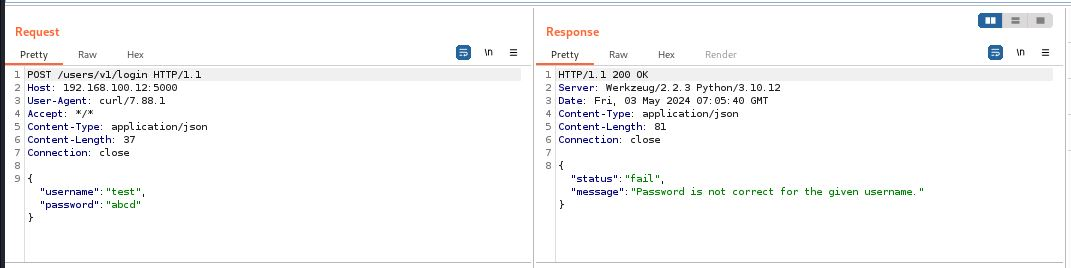
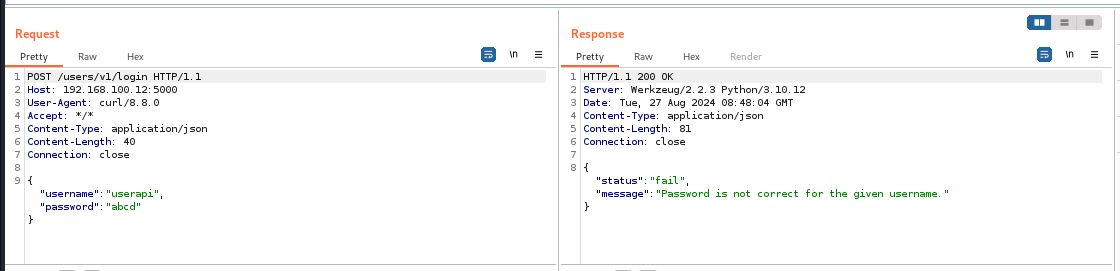
Revisi writeup

diff --git a/Unathorized Password Change.md b/Unathorized Password Change.md
@@ -1,16 +1,16 @@
 # Unauthorized Password Change
 Access Control menerapkan kebijakan sedemikian rupa sehingga pengguna tidak dapat bertindak di luar izin yang dimaksudkan. Kegagalan otorisasi biasanya menyebabkan pengungkapan informasi yang tidak sah, modifikasi, penghapusan data atau pelaksanaan fungsi bisnis lain di luar batas pengguna. Misalnya adalah mengizinkan melihat atau mengedit akun orang lain, dengan memberikan pengenal uniknya (insecure direct object references)
 
-- Login terlebih dahulu untuk mengakses endpoint `/users/v1/{username}/password`
+- Login terlebih dahulu untuk mengakses endpoint `/users/v1/{username}/password` dengan akun yang sudah dibuat di proses instalasi kemudian copy nilai `auth_token`
 ```sh
-curl http://IP_Server:5000/users/v1/login -d '{"username":"test","password":"test"}' -H 'Content-Type: application/json' --proxy http://127.0.0.1:8080
+curl http://IP_Server:5000/users/v1/login -d '{"username":"userapi","password":"12345"}' -H 'Content-Type: application/json' --proxy http://127.0.0.1:8080
 ```
 
 ![alt text](https://github.com/rahardian-dwi-saputra/vampi-walkthrough/blob/main/assets/unathorized%20password%20change/unauthorized%201.JPG)
 
 ![alt text](https://github.com/rahardian-dwi-saputra/vampi-walkthrough/blob/main/assets/unathorized%20password%20change/unauthorized%202.JPG)
 
-- Setelah kita login sebagai user `test` sekarang kita coba mengubah password user `name1` melalui endpoint `/users/v1/{username}/password`
+- Setelah kita login sebagai user `userapi` sekarang kita coba mengubah password user `name1` melalui endpoint `/users/v1/{username}/password`
 ```sh
 curl -X PUT http://IP_Server:5000/users/v1/name1/password -d '{"password":"testing"}' -H 'Authorization: Bearer token' -H 'Content-Type: application/json' -H "Accept: application/json" --proxy http://127.0.0.1:8080 -v
 ```
@@ -19,7 +19,8 @@ curl -X PUT http://IP_Server:5000/users/v1/name1/password -d '{"password":"testi
 
 ![alt text](https://github.com/rahardian-dwi-saputra/vampi-walkthrough/blob/main/assets/unathorized%20password%20change/unauthorized%204.JPG)
 
-- Disini kita berhasil mengubah password user `name1` meskipun kita login sebagai user `test`. Di sisi lain kita juga bisa mengubah email user `name1` melalui endpoint `/users/v1/{username}/email`
+- Dari percobaan diatas, terlihat bahwa sistem memberi respon HTTP code 204 yang artinya request pengubahan password user `name1` telah berhasil dilakukan
+- Di sisi lain kita juga bisa mengubah email user `name1` melalui endpoint `/users/v1/{username}/email`. Jika `auth_token` sudah expire, anda harus melakukan login kembali dan copy value `auth_token` yang baru
 ```sh
 curl -X PUT http://IP_Server:5000/users/v1/name1/email -d '{"email":"testing@mail.com"}' -H 'Authorization: Bearer token' -H 'Content-Type: application/json' -H "Accept: application/json" --proxy http://127.0.0.1:8080 -v
 ```
@@ -27,3 +28,6 @@ curl -X PUT http://IP_Server:5000/users/v1/name1/email -d '{"email":"testing@mai
 ![alt text](https://github.com/rahardian-dwi-saputra/vampi-walkthrough/blob/main/assets/unathorized%20password%20change/unauthorized%205.JPG)
 
 ![alt text](https://github.com/rahardian-dwi-saputra/vampi-walkthrough/blob/main/assets/unathorized%20password%20change/unauthorized%206.JPG)
+
+- Dari percobaan diatas, terlihat bahwa sistem memberi respon HTTP code 204 yang artinya request pengubahan email user `name1` telah berhasil dilakukan
+- Dari serangkaian percobaan diatas, dapat kita simpulkan bahwa kita bisa mengubah password dan email dari user apapun tanpa harus login sebagi user yang bersangkutan. Inilah yang disebut dengan celah keamanan Broken Access Control

diff --git a/User and Password Enumeration.md b/User and Password Enumeration.md
@@ -1,16 +1,16 @@
 # User and Password Enumeration
 Seringkali, aplikasi web mengungkapkan keberadaan nama pengguna di sistem, baik karena kesalahan konfigurasi atau karena kesalahan desain. Misalnya, saat mengirimkan kredensial yang salah, kita menerima pesan yang menyatakan bahwa nama pengguna ada di sistem atau kata sandi yang diberikan salah. Informasi ini dapat digunakan untuk menyerang aplikasi web, misalnya melalui serangan brute force atau mengenumerasi username dan password. Celah keamanan ini ada di endpoint `/users/v1/login`
 
-- Sekarang kita coba lakukan login dengan username yang ada tapi dengan password yang salah
+- Sekarang kita coba lakukan login dengan dengan username yang sudah didaftarkan saat proses instalasi tapi menggunakan password yang salah 
 ```sh
-curl http://IP_Server:5000/users/v1/login -d '{"username":"test","password":"abcd"}' -H 'Content-Type: application/json' --proxy http://127.0.0.1:8080
+curl http://IP_Server:5000/users/v1/login -d '{"username":"userapi","password":"abcd"}' -H 'Content-Type: application/json' --proxy http://127.0.0.1:8080
 ```
 
 ![alt text](https://github.com/rahardian-dwi-saputra/vampi-walkthrough/blob/main/assets/username%20and%20password%20enumeration/enum%201.JPG)
 
 ![alt text](https://github.com/rahardian-dwi-saputra/vampi-walkthrough/blob/main/assets/username%20and%20password%20enumeration/enum%202.JPG)
 
-- Pesan yang kita dapat menyatakan bahwa username tersebut valid tapi passwordnya salah. Sekarang kita coba login dengan username dan password yang salah
+- Dari percobaan diatas, terdapat pesan yang menyatakan bahwa username tersebut valid tapi passwordnya salah. Sekarang kita coba login dengan username dan password yang salah
 ```sh
 curl http://IP_Server:5000/users/v1/login -d '{"username":"abcd","password":"abcd"}' -H 'Content-Type: application/json' --proxy http://127.0.0.1:8080
 ```
@@ -19,4 +19,4 @@ curl http://IP_Server:5000/users/v1/login -d '{"username":"abcd","password":"abc
 
 ![alt text](https://github.com/rahardian-dwi-saputra/vampi-walkthrough/blob/main/assets/username%20and%20password%20enumeration/enum%204.JPG)
 
-- Pesan yang kita dapat menyatakan bahwa username tersebut tidak valid. Celah ini bisa dimanfaatkan oleh penyerang untuk mengumpulkan daftar username kemudian melakukan brute force untuk menemukan password yang valid
+- Dari percobaan diatas, terdapat pesan yang menyatakan bahwa username yang digunakan tidak tersedia disistem. Celah ini bisa dimanfaatkan oleh penyerang untuk mengumpulkan daftar username yang valid melalui respon yang diberikan oleh sistem kemudian melakukan brute force untuk menemukan password yang valid

diff --git a/RegexDOS.md b/RegexDOS.md
@@ -1,8 +1,8 @@
 # Regular expression Denial of Service - ReDoS
-Regular expression Denial of Service (ReDoS) adalah serangan Denial of Service, yang mengeksploitasi sebagian besar implementasi Regular Expression yang dapat mencapai situasi ekstrem dan menyebabkannya bekerja sangat lambat (secara eksponensial terkait dengan ukuran input). Penyerang dapat menyebabkan program yang menggunakan Regular Expression (Regex) memasuki situasi ekstrem ini dan kemudian hang dalam waktu yang sangat lama. Celah keamanan ini berada di endpoint `/users/v1/{username}/email`. Untuk mengakses endpoint ini kita harus login tersebut dengan akun baru yang berhasil kita buat sebelumnya
+Regular expression Denial of Service (ReDoS) adalah serangan Denial of Service, yang mengeksploitasi sebagian besar implementasi Regular Expression yang dapat mencapai situasi ekstrem dan menyebabkannya bekerja sangat lambat (secara eksponensial terkait dengan ukuran input). Penyerang dapat menyebabkan program yang menggunakan Regular Expression (Regex) memasuki situasi ekstrem ini dan kemudian hang dalam waktu yang sangat lama. Celah keamanan ini berada di endpoint `/users/v1/{username}/email`. Untuk mengakses endpoint ini kita harus login tersebut dengan akun yang sudah dibuat di proses instalasi kemudian copy nilai `auth_token`
 
 ```sh
-curl http://IP_Server:5000/users/v1/login -d '{"username":"test","password":"test"}' -H 'Content-Type: application/json' --proxy http://127.0.0.1:8080
+curl http://IP_Server:5000/users/v1/login -d '{"username":"userapi","password":"12345"}' -H 'Content-Type: application/json' --proxy http://127.0.0.1:8080
 ```
 
 ![alt text](https://github.com/rahardian-dwi-saputra/vampi-walkthrough/blob/main/assets/regex%20dos/regex%20dos%201.JPG)

diff --git a/README.md b/README.md
@@ -2,6 +2,10 @@
 Vampi adalah REST API yang rentan dengan kerentanan OWASP top 10 untuk pengujian keamanan
 - Link: https://github.com/erev0s/VAmPI
 
+## Arsitektur Lab
+
+![alt text](https://github.com/rahardian-dwi-saputra/vampi-walkthrough/blob/main/assets/arsitektur%20lab.png)
+
 ## Instalasi di Ubuntu
 - Cloning repositori
 ```sh
